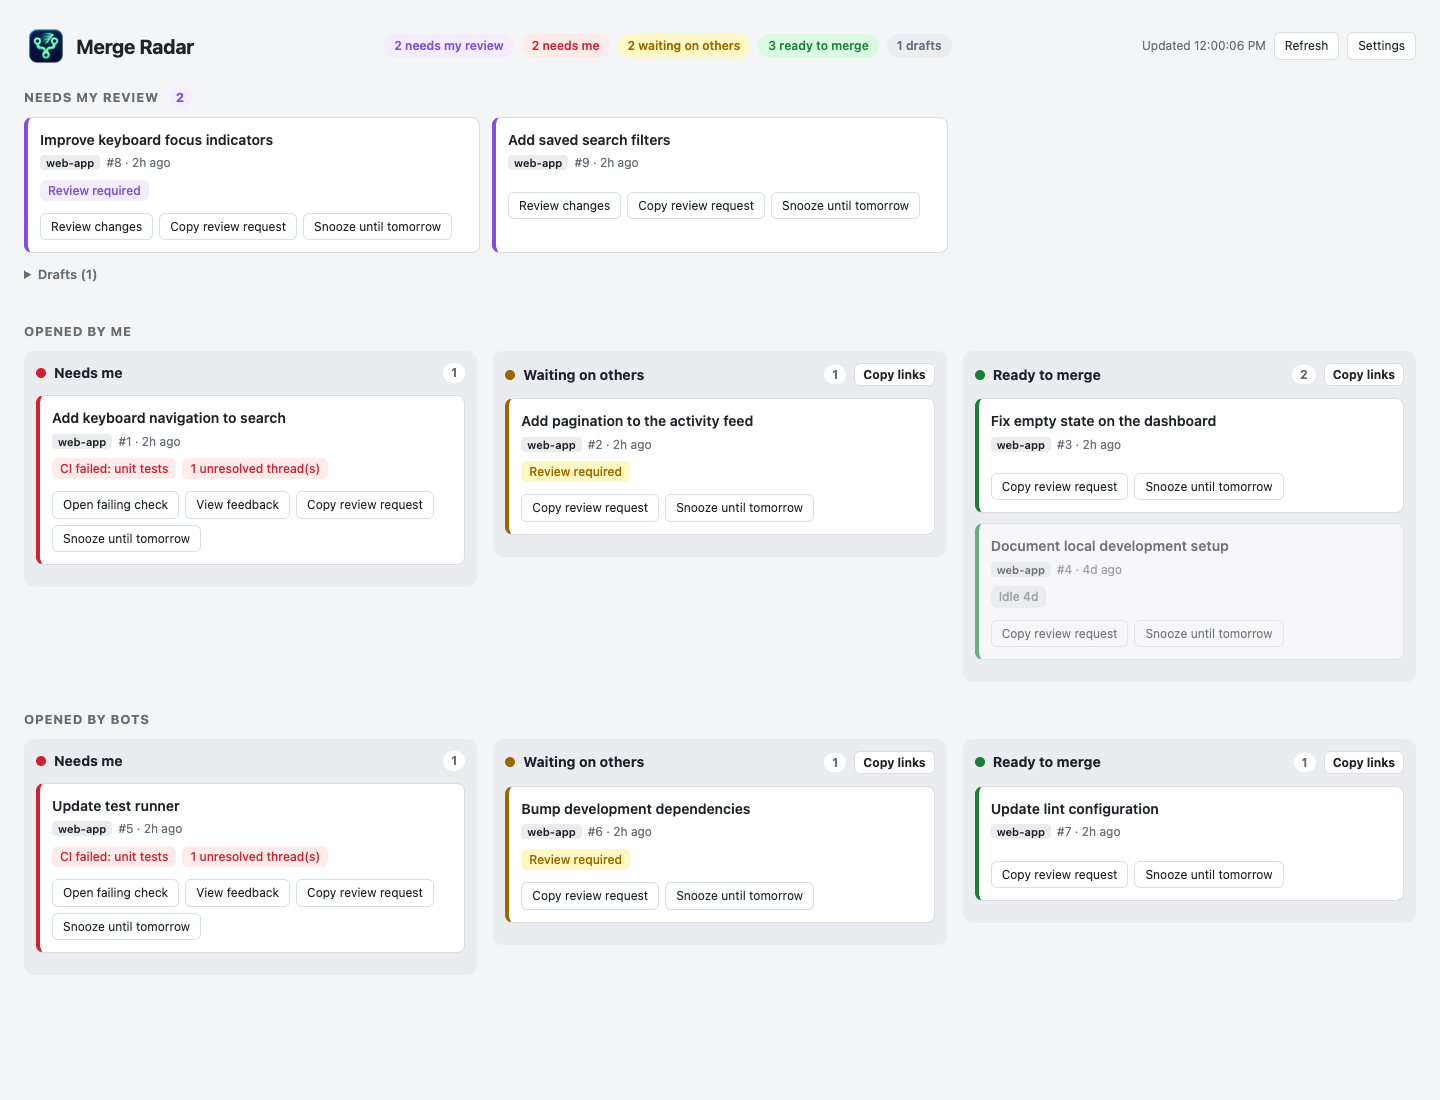
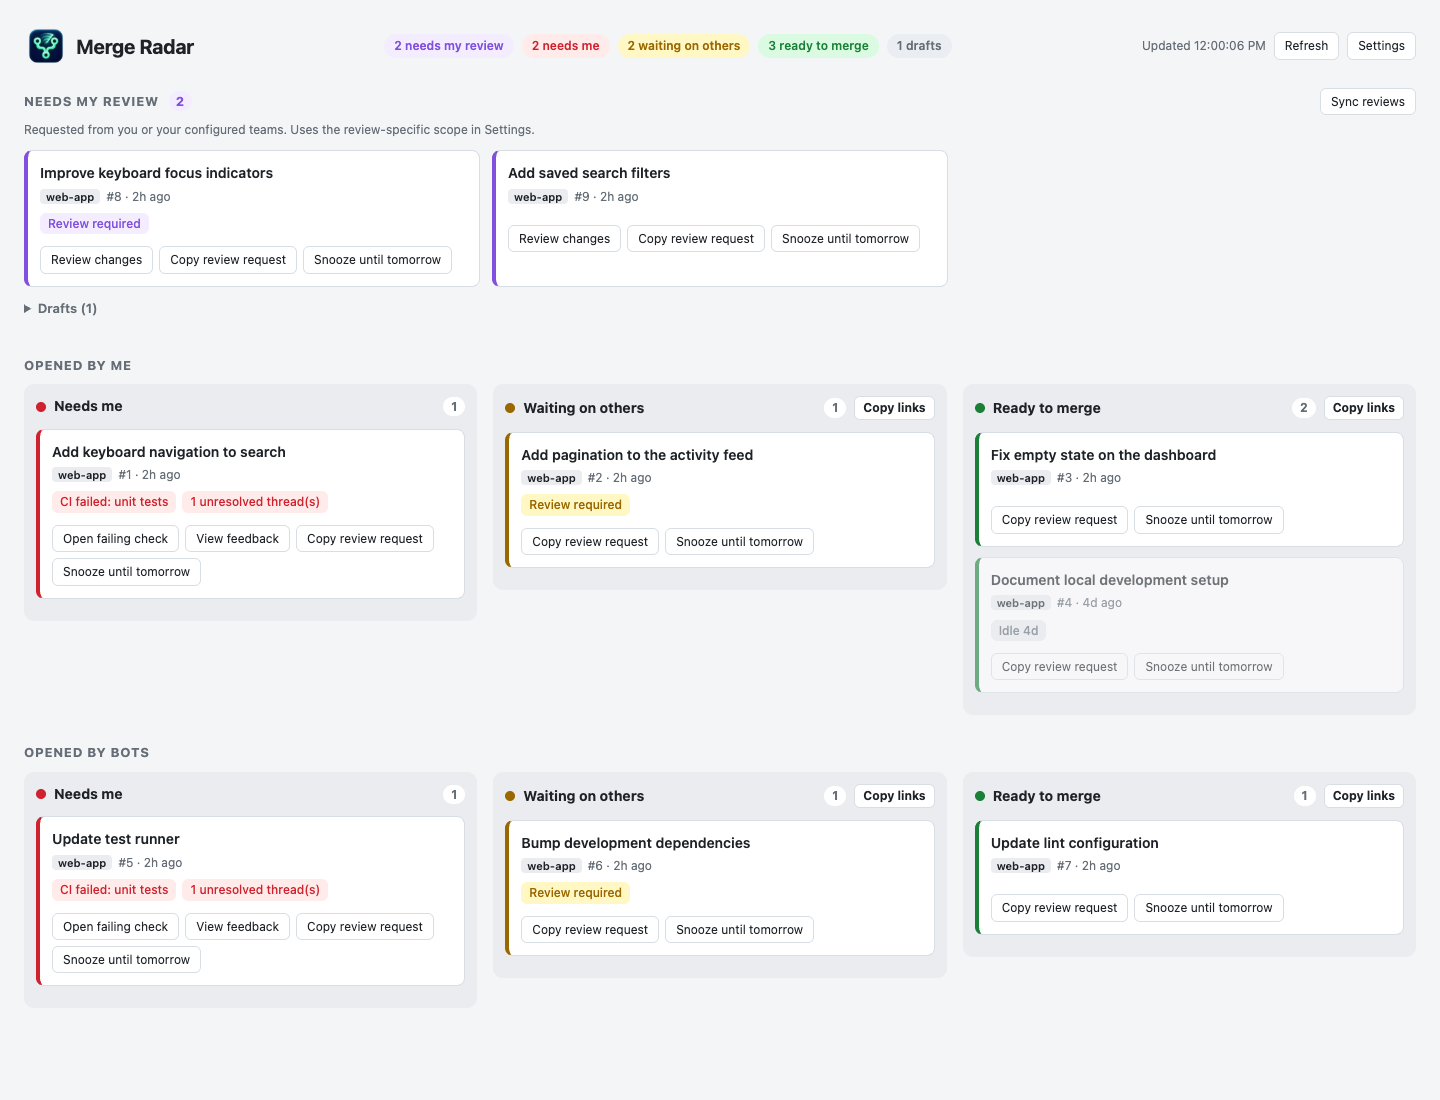
feat: sync personal and team review requests by repository

diff --git a/index.html b/index.html
@@ -27,7 +27,9 @@
   button { font: inherit; font-size: 12px; color: var(--fg); background: var(--card); border: 1px solid var(--border); border-radius: 6px; padding: 4px 10px; cursor: pointer; }
   button:hover { border-color: var(--muted); }
   .group { margin-bottom: 28px; }
-  .group > h3 { font-size: 13px; text-transform: uppercase; letter-spacing: .06em; color: var(--muted); margin: 0 0 10px; }
+  .group h3 { font-size: 13px; text-transform: uppercase; letter-spacing: .06em; color: var(--muted); margin: 0 0 10px; }
+  .review-heading { display: flex; align-items: baseline; justify-content: space-between; gap: 12px; }
+  .review-caption { color: var(--muted); font-size: 12px; margin: 0 0 12px; }
   .lanes { display: flex; flex-wrap: wrap; gap: 16px; align-items: flex-start; }
   .lanes > .lane { flex: 1 1 320px; }
   .lanes > .lane.is-empty { flex: 0 1 200px; padding: 10px 12px; opacity: .7; }
@@ -66,6 +68,8 @@
   .error:empty { display: none; }
   .settings { background: var(--card); border: 1px solid var(--border); border-radius: 10px; padding: 16px; margin-bottom: 20px; display: grid; grid-template-columns: repeat(auto-fit, minmax(220px, 1fr)); gap: 12px 20px; align-items: end; }
   .settings[hidden] { display: none; }
+  .review-settings { grid-column: 1 / -1; display: grid; grid-template-columns: repeat(auto-fit, minmax(220px, 1fr)); gap: 12px 20px; border: 0; padding: 0; margin: 0; }
+  .review-settings[hidden] { display: none; }
   .settings label { display: flex; flex-direction: column; gap: 4px; font-size: 12px; font-weight: 600; color: var(--muted); }
   .settings input, .settings select { font: inherit; font-size: 13px; color: var(--fg); background: var(--bg); border: 1px solid var(--border); border-radius: 6px; padding: 6px 8px; }
   .settings .actions { display: flex; gap: 8px; }
@@ -86,6 +90,13 @@
   <label>First section<select name="first"><option value="mine">Opened by me</option><option value="bot">Opened by bots</option></select></label>
   <label>Refresh every (minutes)<input name="minutes" type="number" min="1" max="60" required></label>
   <label>Mark idle after (days)<input name="idleDays" type="number" min="1" max="90" required></label>
+  <label>Review source<select name="reviewSource" id="review-source"><option value="github">Direct requests across GitHub</option><option value="repositories">My repositories and teams</option></select></label>
+  <fieldset class="review-settings" id="review-settings" hidden>
+    <label>Review repositories (comma-separated)<input name="reviewRepos" placeholder="e.g. owner/web-app, owner/api"></label>
+    <label>Review teams (optional, comma-separated)<input name="reviewTeams" placeholder="e.g. owner/platform"></label>
+    <label>Excluded review title prefixes<input name="reviewExcludePrefixes" placeholder="e.g. chore(deps), WIP:"></label>
+    <label>Maximum review age (days)<input name="reviewMaxAgeDays" type="number" min="0" required></label>
+  </fieldset>
   <div class="actions"><button class="primary" type="submit">Save</button><button id="reset-settings" type="button">Reset to defaults</button></div>
 </form>
 <div id="error" class="error" role="alert"></div>
@@ -100,6 +111,8 @@ const SNOOZE_KEY = 'merge-radar:snoozes';
 let settings;
 let timer;
 let wakeTimer;
+let refreshVersion = 0;
+let refreshing = false;
 let lastPrs = [];
 let snoozes = loadSnoozes();
 
@@ -156,13 +169,21 @@ function toggleSettings() {
   for (const [k, v] of Object.entries(settings)) {
     if (form.elements[k]) form.elements[k].value = v;
   }
+  toggleReviewScope();
   form.hidden = !form.hidden;
+}
+function toggleReviewScope() {
+  const form = document.getElementById('settings');
+  const scoped = form.elements.reviewSource.value === 'repositories';
+  document.getElementById('review-settings').hidden = !scoped;
+  document.getElementById('review-settings').disabled = !scoped;
+  form.elements.reviewRepos.required = scoped;
 }
 function saveSettings(event) {
   event.preventDefault();
-  const data = Object.fromEntries(new FormData(event.target));
+  const data = { ...settings, ...Object.fromEntries(new FormData(event.target)) };
   event.target.hidden = true;
-  syncConfig({ method: 'PUT', headers: { 'content-type': 'application/json' }, body: JSON.stringify({ ...data, minutes: Number(data.minutes), idleDays: Number(data.idleDays) }) });
+  syncConfig({ method: 'PUT', headers: { 'content-type': 'application/json' }, body: JSON.stringify({ ...data, minutes: Number(data.minutes), idleDays: Number(data.idleDays), reviewMaxAgeDays: Number(data.reviewMaxAgeDays) }) });
 }
 function resetSettings() {
   document.getElementById('settings').hidden = true;
@@ -228,7 +249,8 @@ function render() {
   const requested = prs.filter((p) => p.lane === 'review');
   const reviewSection = `
     <section class="group" data-lane="review">
-      <h3>Needs my review <span class="review-count">${requested.length}</span></h3>
+      <div class="review-heading"><h3>Needs my review <span class="review-count">${requested.length}</span></h3><button type="button" id="sync-reviews" data-action="sync-reviews" ${refreshing ? 'disabled' : ''}>Sync reviews</button></div>
+      <p class="review-caption">${settings.reviewSource === 'repositories' ? 'Requested from you or your configured teams. Uses the review-specific scope in Settings.' : 'Requested directly from you. Uses your title keyword and extra filters.'}</p>
       ${requested.length ? `<div class="review-cards">${requested.map((p) => card(p, 'review')).join('')}</div>` : '<p class="empty-state">No PRs are waiting for your review.</p>'}
       ${drafts('review', prs.filter((p) => p.source === 'review' && p.lane === 'draft'))}
     </section>`;
@@ -250,17 +272,32 @@ function render() {
 }
 
 async function refresh() {
+  const version = ++refreshVersion;
+  setRefreshing(true);
   document.getElementById('status').textContent = 'Refreshing...';
   try {
     const res = await fetch('/api/prs');
     if (!res.ok) throw new Error(await res.text());
-    lastPrs = await res.json();
+    const prs = await res.json();
+    if (version !== refreshVersion) return;
+    lastPrs = prs;
     document.getElementById('error').textContent = '';
     render();
     document.getElementById('status').textContent = `Updated ${new Date().toLocaleTimeString()}`;
   } catch (err) {
+    if (version !== refreshVersion) return;
     document.getElementById('error').textContent = err.message;
     document.getElementById('status').textContent = 'Failed';
+  } finally {
+    if (version === refreshVersion) setRefreshing(false);
+  }
+}
+
+function setRefreshing(value) {
+  refreshing = value;
+  for (const id of ['refresh', 'sync-reviews']) {
+    const button = document.getElementById(id);
+    if (button) button.disabled = value;
   }
 }
 
@@ -268,6 +305,7 @@ document.getElementById('refresh').addEventListener('click', refresh);
 document.getElementById('toggle-settings').addEventListener('click', toggleSettings);
 document.getElementById('settings').addEventListener('submit', saveSettings);
 document.getElementById('reset-settings').addEventListener('click', resetSettings);
+document.getElementById('review-source').addEventListener('change', toggleReviewScope);
 document.getElementById('summary').addEventListener('click', (event) => {
   const button = event.target.closest('[data-jump]');
   if (button) jumpTo(button.dataset.jump);
@@ -275,6 +313,7 @@ document.getElementById('summary').addEventListener('click', (event) => {
 document.getElementById('groups').addEventListener('click', (event) => {
   const button = event.target.closest('button[data-action]');
   if (!button) return;
+  if (button.dataset.action === 'sync-reviews') return refresh();
   if (button.dataset.action === 'copy-links') return copyLinks(button, button.dataset.source, button.dataset.lane);
   const pr = lastPrs.find((p) => p.url === button.closest('[data-pr-url]')?.dataset.prUrl);
   if (!pr) return;

diff --git a/README.md b/README.md
@@ -8,7 +8,7 @@ A local dashboard of your open GitHub pull requests, sorted by what is blocking 
 
 Merge Radar collects PRs you authored, are assigned to, or have been directly asked to review:
 
-- **Needs my review**: direct review requests, shown first with a link to the changed files.
+- **Needs my review**: personal or configured-team review requests, shown first with a link to the changed files.
 - **Needs me**: merge conflict, failed CI, unresolved review threads, or changes requested.
 - **Waiting on others**: CI running, review required, or branch protection pending.
 - **Ready to merge**: no blockers detected in the fetched data.
@@ -16,7 +16,18 @@ Merge Radar collects PRs you authored, are assigned to, or have been directly as
 
 PRs opened by bots (for example an automation app that assigns PRs to you) are shown in their own section. The "Opened by me" section includes all other results, including PRs authored by another person and assigned to you. Blockers link to the relevant GitHub page, with a direct link to a failing check or unresolved thread when available. Merge Radar never writes to GitHub.
 
-Direct review requests use GitHub's [`user-review-requested:@me` filter](https://docs.github.com/en/issues/tracking-your-work-with-issues/using-issues/filtering-and-searching-issues-and-pull-requests). Team-only requests are excluded. A PR that is both assigned to you and awaiting your review appears once, in "Needs my review". Draft review requests stay collapsed. Your title keyword and extra filters apply to all sections.
+A PR that is both assigned to you and awaiting your review appears once, in "Needs my review". Use **Sync reviews** to refresh immediately, or let the normal auto-refresh keep the list current.
+
+## Review sources
+
+Choose a **Review source** in Settings:
+
+- **Direct requests across GitHub** (default) uses [`user-review-requested:@me`](https://docs.github.com/en/issues/tracking-your-work-with-issues/using-issues/filtering-and-searching-issues-and-pull-requests). It excludes team-only requests, applies your title keyword and extra filters, and keeps draft requests collapsed.
+- **My repositories and teams** follows the selection logic used by `prctrl`: list every page of open PRs in your configured repositories, then match your GitHub username against `requested_reviewers` or a configured team against `requested_teams`. It excludes your own PRs, drafts, configured title prefixes, and PRs older than the configured age.
+
+For repository mode, enter repositories as `owner/repository` and teams as `owner/team-slug`, separated by commas. Teams are matched only within their organization. The username comes from your active GitHub CLI account. This mode uses its own review scope; the dashboard's title keyword and extra search filters still apply to your authored and assigned PRs but do not hide incoming review requests.
+
+Repository mode runs directly through `gh`, without requiring `prctrl` or reading its credentials. You can reuse the repository, team, age, and excluded-prefix values from your `prctrl` configuration in these settings. They are saved in the ignored `config.json`; changes to your `prctrl` configuration are not imported automatically. Browser snoozes remain specific to Merge Radar.
 
 ## Card actions
 
@@ -75,6 +86,11 @@ The app works with the defaults immediately. To customize them, copy `config.exa
 | First section (`first`: `mine` or `bot`) | Opened by me | Which section comes first |
 | Refresh every (`minutes`) | 3 minutes | Auto refresh interval |
 | Mark idle after (`idleDays`) | 3 days | PRs without updates for this long are faded and tagged |
+| Review source (`reviewSource`) | `github` | Direct GitHub search, or `repositories` for repository and team matching |
+| Review repositories (`reviewRepos`) | none | Comma-separated `owner/repository` names for repository mode |
+| Review teams (`reviewTeams`) | none | Optional comma-separated `owner/team-slug` names for repository mode |
+| Excluded review prefixes (`reviewExcludePrefixes`) | none | Comma-separated title prefixes skipped in repository mode |
+| Maximum review age (`reviewMaxAgeDays`) | 60 days | Maximum age in complete days since creation, for repository mode |
 
 Each lane in "Waiting on others" and "Ready to merge" has a **Copy links** button that copies a Markdown list of its PRs, ready to paste into a chat.
 
@@ -86,14 +102,16 @@ Local settings, session artifacts, environment files, keys, and logs are exclude
 
 ## Limitations and troubleshooting
 
-- Each refresh fetches up to 50 authored PRs, 50 assigned PRs, and 50 direct review requests, then removes duplicates. It reads up to 100 checks on the latest commit and 100 review threads per PR, without pagination.
+- Each refresh searches up to 50 authored and 50 assigned PRs. Direct-review search also stops at 50; repository mode paginates all open PRs in its configured repositories. Both modes read up to 100 checks on the latest commit and 100 review threads per PR, without pagination for those details.
+- Repository mode makes more API calls than search. It limits each batch to eight concurrent requests and shares in-progress syncs across tabs using the same settings. If a repository cannot be read, the refresh shows an error and keeps the previous dashboard instead of silently hiding reviews.
 - "Ready to merge" is advisory. Confirm the current checks, approvals, and repository rules on GitHub before merging. Ignored checks do not count as blockers in this dashboard.
 - If authentication fails or a private repository is missing, run `gh auth status` and check that your CLI account has access, including any required organization SSO authorization.
 - If the port is already in use, stop the existing server or set a different `PORT`. If the macOS login agent fails to start, check `~/Library/Logs/merge-radar.log` and rerun `./install.sh` with Node.js and `gh` available in your terminal.
 
 ## How it works
 
-- `server.mjs` serves the page and `/api/prs`, which runs three `gh api graphql` searches (`author:@me`, `assignee:@me`, and `user-review-requested:@me`).
+- `server.mjs` serves the page and `/api/prs`, which searches authored and assigned PRs and loads reviews from the selected source.
+- `reviews.mjs` paginates repository review requests and fetches their current checks and feedback through GitHub GraphQL.
 - `lib.mjs` classifies each PR into a lane. It is pure and covered by `lib.test.mjs`.
 - `ui-state.mjs` handles local snooze expiry and review-request text, covered by `ui-state.test.mjs`.
 - `index.html` is the whole UI, with no build step and no dependencies.
